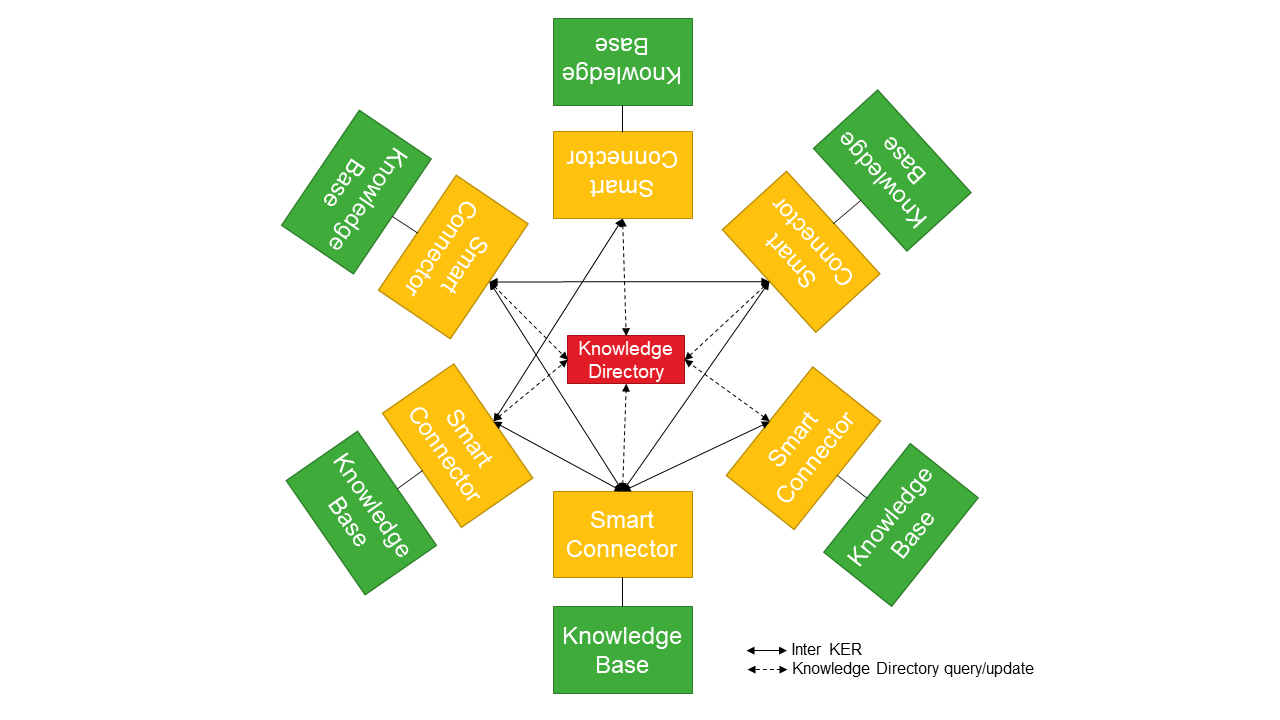
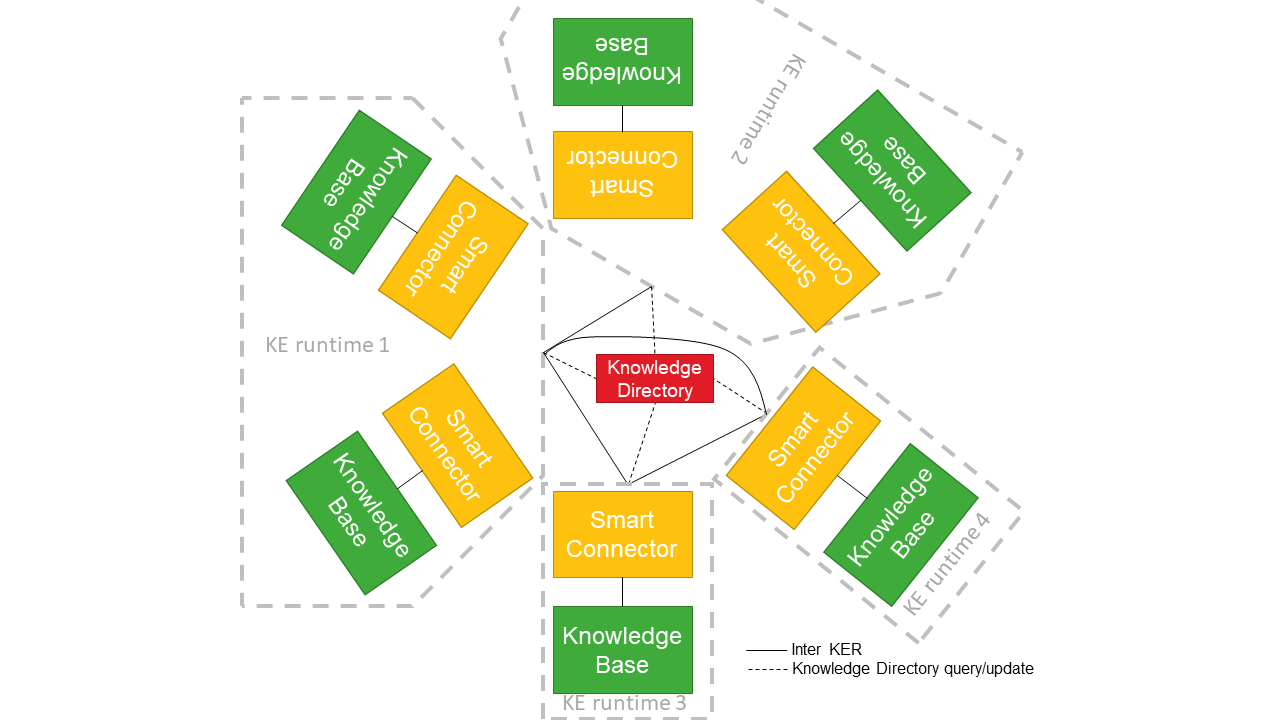
Added Basic Auth explanation.

diff --git a/docs/04_distributed_mode.md b/docs/04_distributed_mode.md
@@ -3,7 +3,9 @@ Distributed mode
 
 This section contains information about running the knowledge engine in distributed mode. This mode requires a central component called the knowledge directory (KD). The only responsibility of the KD is keeping track of all registered Knowledge Engine runtimes (KE runtime). The different KE runtimes use the KD to find other KE runtimes with whom they can exchange data. Note that KE runtimes communicate with each other directly and the knowledge directory does not mediate in this process.  
 
-![alt text](./img/distributed-mode.png)*Figure 1: different knowledge engine.*
+Figure 1 below illustrates an example of a distributed knowledge network consisting of multiple KE runtimes and a single KD. The KE runtimes register to the KD and regularly query it to discover updates to the KE runtimes. The KE runtimes communicate peer-2-peer with each other to discover new smart connectors (SCs) and to exchange actual data (requests) using the Inter-KER protocol.
+
+![alt text](./img/distributed-mode.png)*Figure 1: different KE runtimes with one or more smart connectors \(SCs\) connected to a centralized KD.*
 
 ### Starting the Knowledge Engine in distributed mode
 
@@ -14,7 +16,7 @@ First of all, you need to start a knowledge directory. The desired port number f
 ```bash
 cd knowledge-directory/target/
 
-java -Dorg.slf4j.simpleLogger.logFile=kd.log -cp "knowledge-directory-1.2.0.jar:dependency/*" eu.knowledge.engine.knowledgedirectory.Main 8080
+java -Dorg.slf4j.simpleLogger.logFile=kd.log -cp "knowledge-directory-1.2.1.jar:dependency/*" eu.knowledge.engine.knowledgedirectory.Main 8080
 ```
 
 As explained in the local mode section, `nohup` can be used to run the process in the background. On overview of the registered Knowledge Engine runtimes can be found on `http://localhost:8080/ker/` (or another host or port if you desire).
@@ -23,8 +25,8 @@ Once the knowledge directory is up and running, the REST server can be started. 
 
 | Key    | Descrption                                     |
 |--------|------------------------------------------------|
-| KD_URL | URL where the knowledge directory can be found |
-| KE_RUNTIME_EXPOSED_URL | URL where other smart connectors (peers) can contact this Knowledge Engine instance. This allows your Knowledge Engine to be behind a reverse proxy and use TLS. Note that the URL should include the scheme like `http://...` or `https://...`.
+| KD_URL | URL where the knowledge directory can be found. This url should not end with a slash (`/`).|
+| KE_RUNTIME_EXPOSED_URL | URL where other smart connectors (peers) can contact this Knowledge Engine runtime. This allows your Knowledge Engine to be behind a reverse proxy and use TLS. Note that the URL should include the scheme like `http://...` or `https://...` and should not end with a slash (`/`).
 | KE_RUNTIME_PORT | Port where where this Knowledge Engine instance will listen for new peer connections |
 | KE_RUNTIME_HOSTNAME (deprecated) | Hostname where other smart connectors (peers) can contact this Knowledge Engine instance. This variable is superseded by (and conflicts with) KE_RUNTIME_EXPOSED_URL|
 
@@ -37,7 +39,9 @@ export KD_URL=http://localhost:8080
 export KE_RUNTIME_EXPOSED_URL=http://localhost:8081
 export KE_RUNTIME_PORT=8081
 
-java -Dorg.slf4j.simpleLogger.logFile=ke.log -cp "smart-connector-rest-dist-1.2.0.jar:dependency/*" eu.knowledge.engine.rest.Main 8280
+java -Dorg.slf4j.simpleLogger.logFile=ke.log -cp "smart-connector-rest-dist-1.2.1.jar:dependency/*" eu.knowledge.engine.rest.Main 8280
 ```
 
-As explained in the local mode section, `nohup` can be used to run the process in the background.
+### Using Basic Authentication to secure data exchange
+
+The communication in Figure 1 can be secured using Basic Authentication and HTTPS. This requires the usage of reverse proxies (like [NGINX](https://www.nginx.com/)) in front of the KD and KE runtimes. In such scenario, this reverse proxy handles all HTTPS and Basis Authentication configuration and forwards traffic over HTTP and without basic authentication to the KD and KE Runtime. To facilitate this, the KE supports conveying user credentials (username and password) within both the KD_URL and KE_RUNTIME_EXPOSED_URL environment variables like this `https://username:password@www.example.org/keruntime`. Whenever these URLs contains user credentials, the KER uses these credentials to connect to the Knowledge Directory or Knowledge Engine Runtime, respectively. An example of using Basic Authentication (with HTTPS) in distributed mode can be found in the [authentication example](../examples/authentication/).
